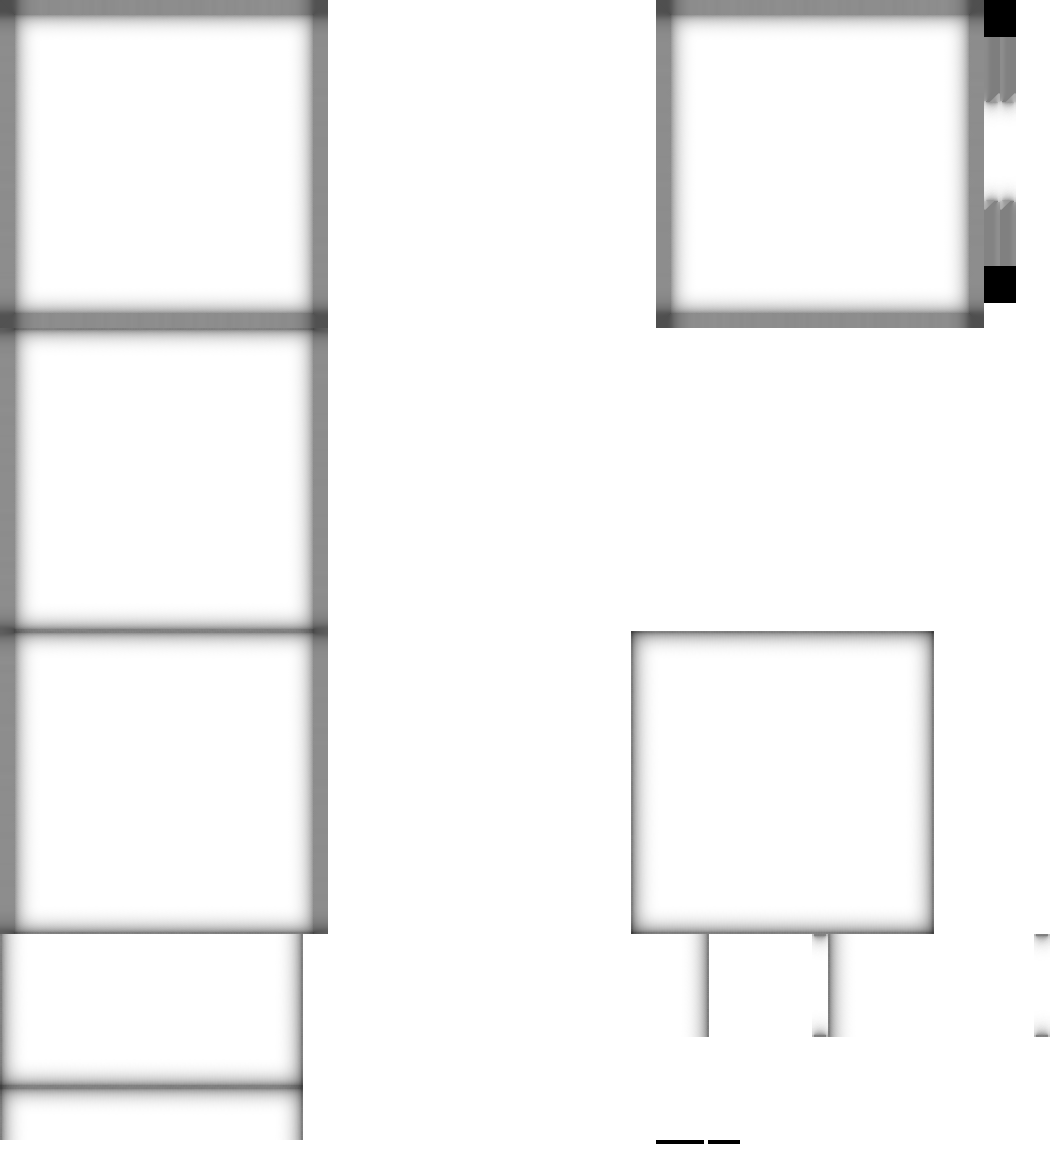
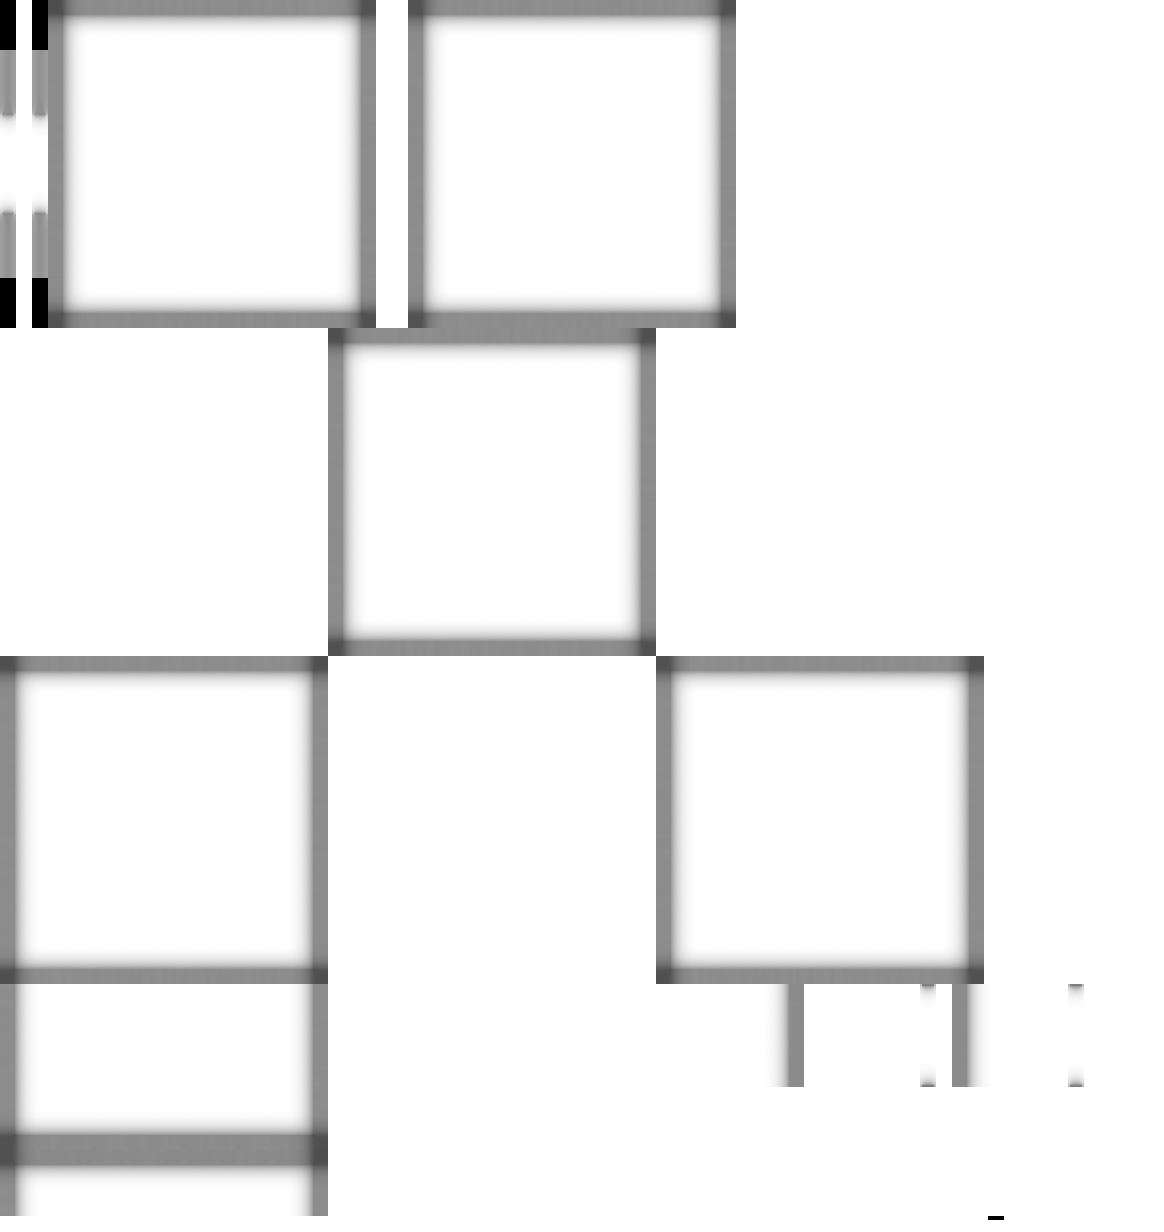
fix(frontend): room の壁の隅の継ぎ目の隙間をなくす (#67)
* fix(frontend): room の壁を隣の面まで延ばし、隅の継ぎ目の隙間をなくす

* chore(frontend): 壁の修正に合わせて room シーンの AO をベイクし直す

---------

diff --git a/frontend/src/scenes/RoomScene/layout.ts b/frontend/src/scenes/RoomScene/layout.ts
@@ -43,33 +43,44 @@ export const ROOM_FLOOR: WallSpec = {
   size: [OUTER, WALL_THICKNESS, OUTER],
 };
 
-/** 部屋を囲む壁と天井。左の壁には窓の空洞を空ける */
+/**
+ * 部屋を囲む壁と天井。左の壁には窓の空洞を空ける。
+ * 壁は、隣の壁・床・天井の中まで延ばして重ねる(端と端を突き合わせるだけだと、隅の継ぎ目に 1px の隙間ができて外の空が線になって見える)
+ */
 export const ROOM_WALLS: readonly WallSpec[] = [
   // 奥(-Z)と手前(+Z)の壁は、角まで覆う
   {
     position: [0, HALF, ROOM_CENTER_Z - WALL_CENTER],
-    size: [OUTER, ROOM_SIZE, WALL_THICKNESS],
+    size: [OUTER, OUTER, WALL_THICKNESS],
   },
   {
     position: [0, HALF, ROOM_CENTER_Z + WALL_CENTER],
-    size: [OUTER, ROOM_SIZE, WALL_THICKNESS],
+    size: [OUTER, OUTER, WALL_THICKNESS],
   },
   // 右(+X)の壁
   {
     position: [WALL_CENTER, HALF, ROOM_CENTER_Z],
-    size: [WALL_THICKNESS, ROOM_SIZE, ROOM_SIZE],
+    size: [WALL_THICKNESS, OUTER, OUTER],
   },
   // 左(-X)の壁: 窓の下・上・奥側・手前側の 4 枚
   {
-    position: [-WALL_CENTER, WINDOW_SILL_HEIGHT / 2, ROOM_CENTER_Z],
-    size: [WALL_THICKNESS, WINDOW_SILL_HEIGHT, ROOM_SIZE],
+    position: [
+      -WALL_CENTER,
+      (WINDOW_SILL_HEIGHT - WALL_THICKNESS) / 2,
+      ROOM_CENTER_Z,
+    ],
+    size: [WALL_THICKNESS, WINDOW_SILL_HEIGHT + WALL_THICKNESS, OUTER],
   },
   {
-    position: [-WALL_CENTER, (windowTop + ROOM_SIZE) / 2, ROOM_CENTER_Z],
-    size: [WALL_THICKNESS, ROOM_SIZE - windowTop, ROOM_SIZE],
+    position: [
+      -WALL_CENTER,
+      (windowTop + ROOM_SIZE + WALL_THICKNESS) / 2,
+      ROOM_CENTER_Z,
+    ],
+    size: [WALL_THICKNESS, ROOM_SIZE + WALL_THICKNESS - windowTop, OUTER],
   },
-  besideWindow(ROOM_INNER_Z_NORTH, windowNorthZ),
-  besideWindow(windowSouthZ, ROOM_INNER_Z_SOUTH),
+  besideWindow(ROOM_INNER_Z_NORTH - WALL_THICKNESS, windowNorthZ),
+  besideWindow(windowSouthZ, ROOM_INNER_Z_SOUTH + WALL_THICKNESS),
   // 天井
   {
     position: [0, ROOM_SIZE + WALL_THICKNESS / 2, ROOM_CENTER_Z],
